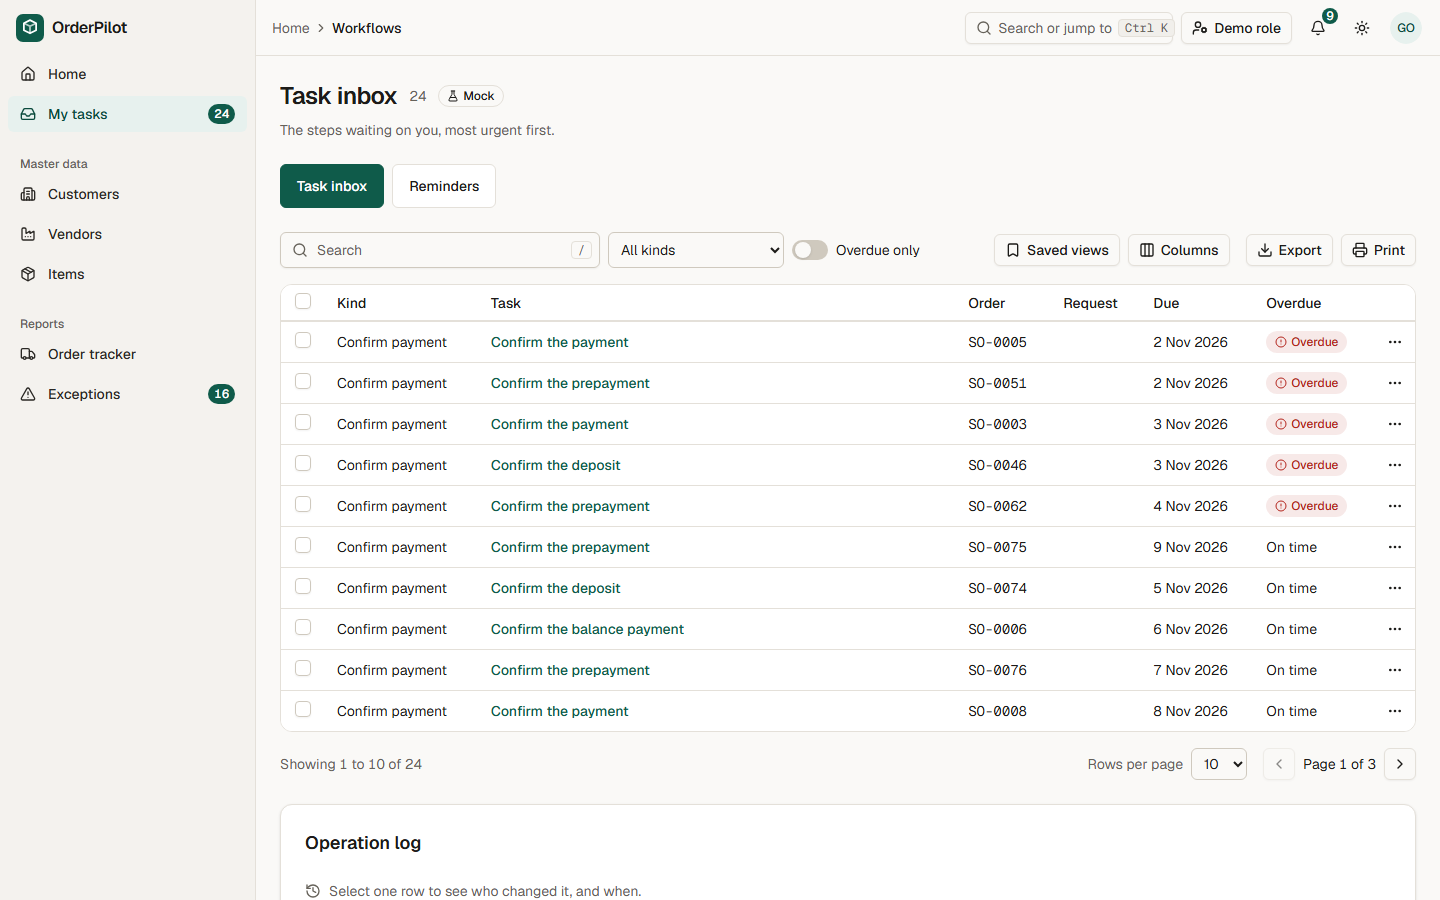
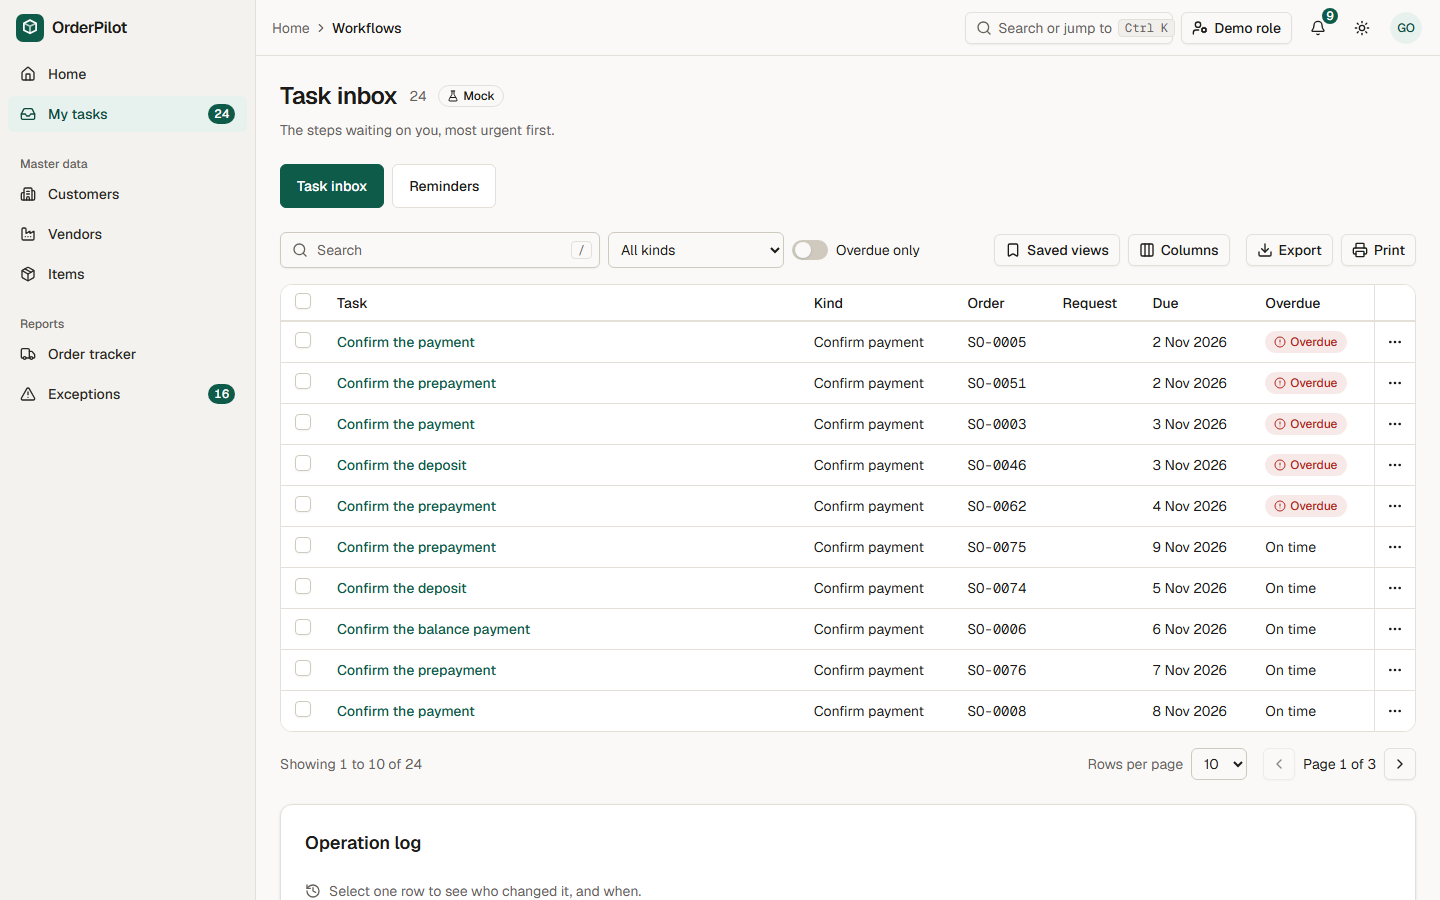
docs: add the P-45 screenshots for nine roles at both sizes
Light for every role's two pages, dark for the ticked-row views, plus the row menu,
the column settings and the saved views.

diff --git a/docs/design/screenshots/workspace/README.md b/docs/design/screenshots/workspace/README.md
@@ -9,3 +9,12 @@ Pictures of the list page template, taken from a production build of this branch
 - `gallery-filters-*`: the gallery's list demo with a customer lookup and an Updated date range under More filters, at 1440 and 390 wide.
 - `print-items-support.png`: the print view as the browser draws it for paper.
 - `gallery-lookup-touch-1024.png` and `gallery-date-range-touch-1024.png`: the lookup and the date range popovers in a real browser (Chromium with touch, so the coarse-pointer rules apply) at 1024 by 768, from the real API in demo mode. Every control in them measures 44 px or more.
+
+## The list grid (P-45)
+
+Taken from the real API in demo mode (the Vite dev server on this branch, an API and database of its own), with Playwright at 1440 by 900 and 390 by 844. All data is synthetic demo data.
+
+- `<role>-<page>-<width>-light.png`: each role's two main pages that P-45 touched, in light. The system admin has the users tab, Finance and the Auditor have the exceptions queue, and the rest have the order tracker and the task inbox. The home pages are not retaken: this story does not change them.
+- `tracker-selected-log-*`: the order tracker with one row ticked, the count, the batch bar and the operation log at the foot, in light and dark.
+- `users-selected-log-*-dark`: the users tab with one user ticked and that user's operation log (who, when and what, no field values and no IP address).
+- `tracker-row-menu-*`, `tracker-column-settings-*`, `tracker-saved-views-*`: the row menu, the column settings (show, hide and order) and the saved views, in light.
